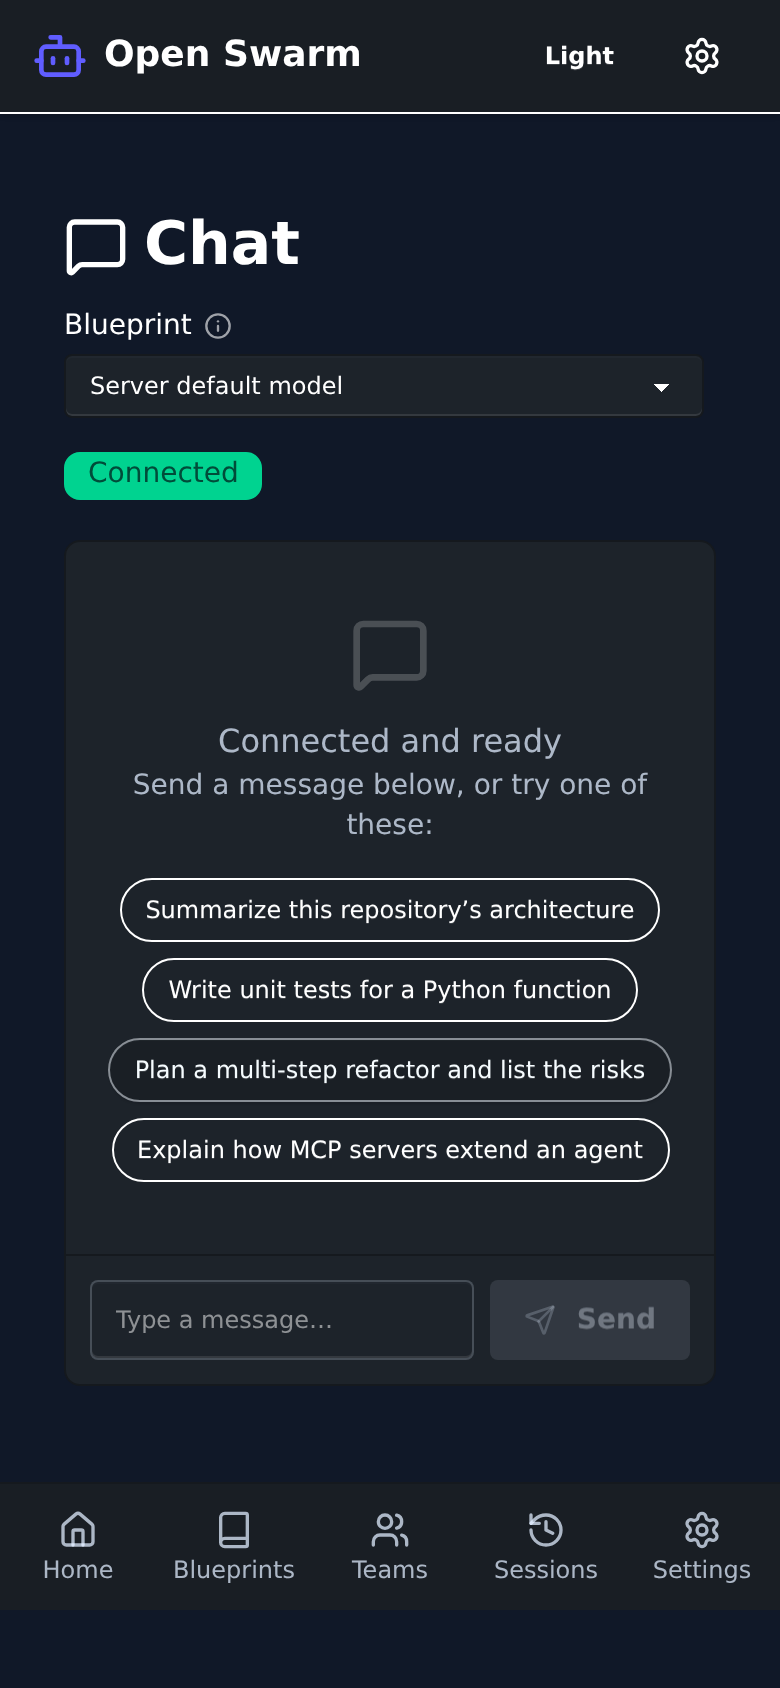
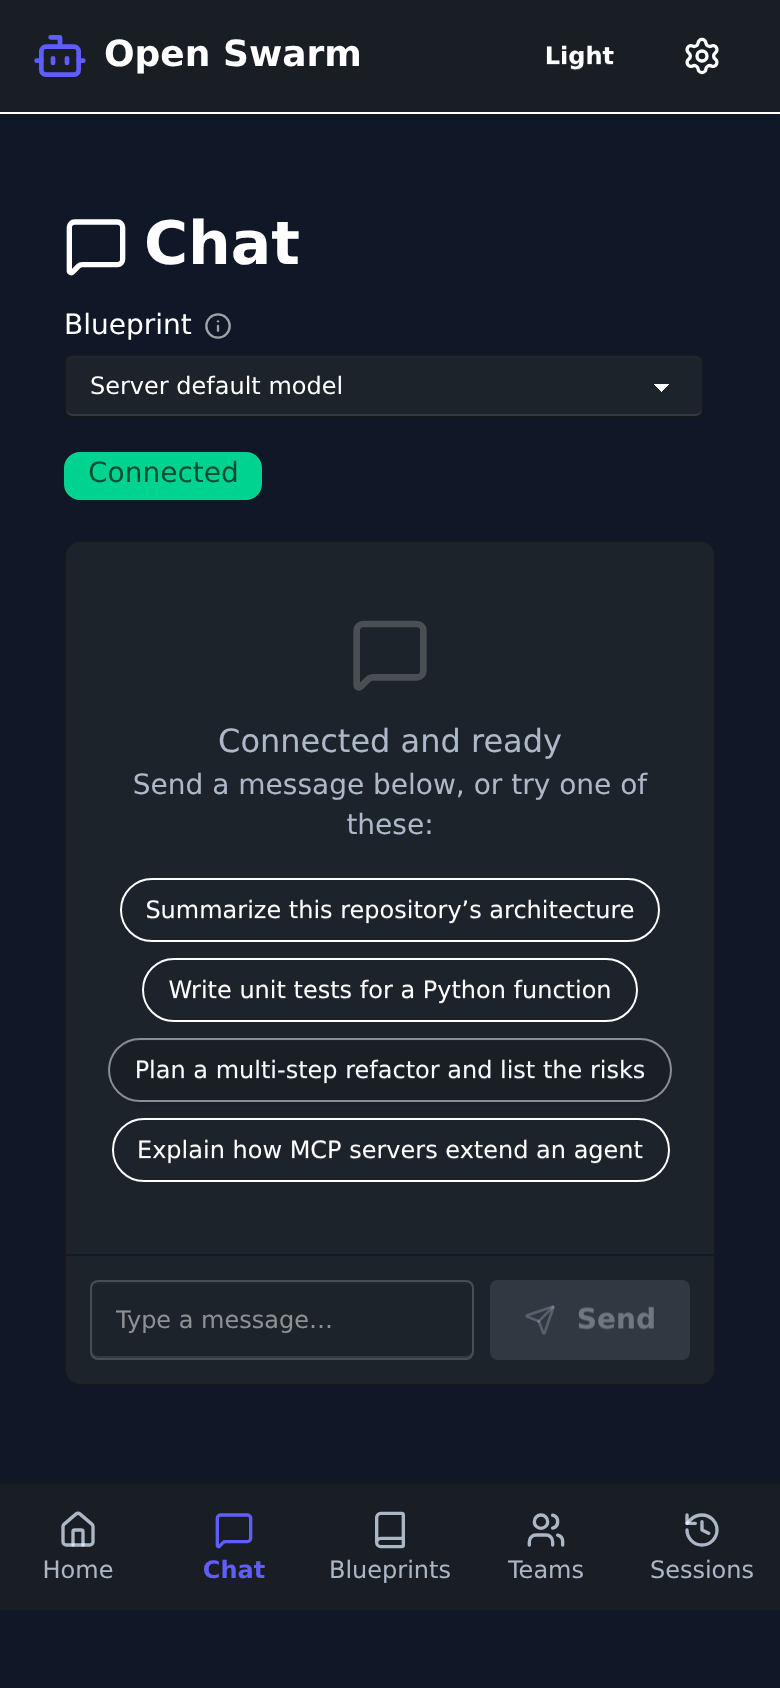
docs: SPA Chat dock vs Django Settings dock honesty
Rebuild SPA dist and recapture landing/spa-chat mobiles after App.tsx
added Chat to the mobile dock. Docs now distinguish SPA
Home·Chat·Blueprints·Teams·Sessions from Django
Home·Blueprints·Teams·Sessions·Settings; spa-chat captions match the
Connected post-login journey frames.

diff --git a/docs/SCREENSHOTS.md b/docs/SCREENSHOTS.md
@@ -16,8 +16,8 @@ full-page PNGs.
 
 | File | Page / URL | What it shows | Used in | Captured | Status |
 | --- | --- | --- | --- | --- | --- |
-| `landing.png` | `/` (React SPA dashboard) | Counts 0/53/53; Quick Actions **Launch Team / Browse Blueprints / Manage Teams / Settings**; nav Home·Blueprints·Teams·Sessions·Settings (matches App.tsx) | USER_JOURNEY.md, GUIDED_TOUR.md, README.md | 2026-08-18 | current |
-| `spa-chat.png` | `/chat` (React SPA) | **Unavailable** / websocket failed gate + Sign in CTA; blueprint selector **not** in frame — same gate as `mobile/spa-chat.png` | GUIDED_TOUR.md | 2026-08-18 | current |
+| `landing.png` | `/` (React SPA dashboard) | Counts 0/55/55; Quick Actions **Launch Team / Browse Blueprints / Manage Teams / Settings**; desktop top nav Home·Blueprints·Teams·Sessions·Settings (matches App.tsx) | USER_JOURNEY.md, GUIDED_TOUR.md, README.md | 2026-08-18 | current |
+| `spa-chat.png` | `/chat` (React SPA) | **Connected** shell after journey login; blueprint selector + empty-state prompts (matches `mobile/spa-chat.png`) | GUIDED_TOUR.md | 2026-08-18 | current |
 | `spa-teams.png` | `/teams` → **`/teams/launch/`** | Redirect capture + sticky “Redirected: …” banner over Team Launcher | GUIDED_TOUR.md | 2026-08-18 | current |
 | `spa-blueprints.png` | `/blueprints` → **`/blueprint-library/`** | Redirect capture + banner over Blueprint Library | GUIDED_TOUR.md | 2026-08-18 | current |
 | `spa-settings.png` | `/settings` → **`/settings/`** | Redirect capture + banner over Settings Dashboard | GUIDED_TOUR.md | 2026-08-18 | current |
@@ -43,21 +43,21 @@ Same stems as desktop with `--mobile` (iPhone-14-class: 390×844, dpr 2, touch).
 
 **Bottom nav honesty (as of these PNGs):**
 
-* **Django** operator pages and the **SPA** shell (`mobile/landing.png`,
-  `mobile/spa-chat.png`) use the same five-tab bar
-  **Home · Blueprints · Teams · Sessions · Settings** (matches App.tsx).
+* **SPA** shell (`mobile/landing.png`, `mobile/spa-chat.png`) dock is
+  **Home · Chat · Blueprints · Teams · Sessions** (matches App.tsx — Settings
+  is desktop top-nav / gear only, not in the SPA mobile dock).
+* **Django** operator pages keep **Home · Blueprints · Teams · Sessions ·
+  Settings** (no Chat tab; chat stays SPA-only).
 * Bare SPA paths still **redirect** to Django; `spa-*` redirect captures keep
-  the sticky “Redirected: …” banner over the Django landing (five-tab bar).
-* Desktop and mobile `spa-chat.png` both show the **Unavailable** /
-  websocket-failed gate with a Sign in link (`/accounts/login/`). A prior
-  mobile frame sometimes showed **Connected** when an older session cookie
-  survived; the current journey capture authenticates up front but the chat
-  WS still fails closed in this env, so both viewports match.
+  the sticky “Redirected: …” banner over the Django landing (Django five-tab).
+* Desktop and mobile `spa-chat.png` both show the **Connected** composer after
+  the journey script logs in as `journey-admin` (blueprint selector visible).
+  Anonymous / failed-WS frames are **not** what these PNGs show.
 
 | File | Page / URL | Mobile-specific notes | Captured | Status |
 | --- | --- | --- | --- | --- |
-| `mobile/landing.png` | `/` | Stat cards stack; Quick Actions **Launch Team / Browse Blueprints / Manage Teams / Settings**; **5-tab dock** Home · Blueprints · Teams · Sessions · Settings (Home active; matches App.tsx). Embedded in GUIDED_TOUR.md | 2026-08-18 | current |
-| `mobile/spa-chat.png` | `/chat` | **Unavailable** / websocket-failed gate + Sign in CTA (matches desktop); **5-tab dock** (Chat is SPA-only, not a dock tab) | 2026-08-18 | current |
+| `mobile/landing.png` | `/` | Stat cards stack; Quick Actions **Launch Team / Browse Blueprints / Manage Teams / Settings**; **SPA 5-tab dock** Home · Chat · Blueprints · Teams · Sessions (Home active; matches App.tsx). Embedded in GUIDED_TOUR.md | 2026-08-18 | current |
+| `mobile/spa-chat.png` | `/chat` | **Connected** composer + blueprint selector; **SPA 5-tab dock** with **Chat** active | 2026-08-18 | current |
 | `mobile/spa-teams.png` | `/teams` → **`/teams/launch/`** | Redirect banner + Team Launcher; Django **5-tab** bar (Teams active) | 2026-08-18 | current |
 | `mobile/spa-blueprints.png` | `/blueprints` → **`/blueprint-library/`** | Redirect banner + single-column cards; Django **5-tab** (Blueprints active) | 2026-08-18 | current |
 | `mobile/spa-settings.png` | `/settings` → **`/settings/`** | Redirect banner over Settings dashboard; Django **5-tab** (Settings active). Embedded in GUIDED_TOUR.md | 2026-08-18 | current |

diff --git a/docs/GUIDED_TOUR.md b/docs/GUIDED_TOUR.md
@@ -50,36 +50,33 @@ replies, team launches) need an LLM profile configured (see
 ![SPA dashboard: live team/blueprint/model counts, quick actions, API reachable](./screenshots/landing.png)
 
 *Lightweight React dashboard. This capture shows Teams **0**, Blueprints
-**53**, Models **53** (API listings — the Blueprint Library’s discoverable
+**55**, Models **55** (API listings — the Blueprint Library’s discoverable
 catalog count can differ). Desktop top nav: **Home · Blueprints · Teams ·
 Sessions · Settings**. Quick Actions: **Launch Team**, **Browse Blueprints**,
 **Manage Teams**, **Settings**. Banner text points operators at Django
 trailing-slash paths for library, sessions, creators, and settings.
 Recaptured after `npm run build` on **2026-08-18**.
 
-![SPA dashboard (mobile): same counts; five-tab dock Home active](./screenshots/mobile/landing.png)
+![SPA dashboard (mobile): same counts; SPA dock Home · Chat · Blueprints · Teams · Sessions](./screenshots/mobile/landing.png)
 
-*Mobile twin (`screenshots/mobile/landing.png`): stacked cards and the same
-**five-tab dock** (Home · Blueprints · Teams · Sessions · Settings; Home
-active) as App.tsx.*
+*Mobile twin (`screenshots/mobile/landing.png`): stacked cards and the **SPA
+five-tab dock** (**Home · Chat · Blueprints · Teams · Sessions**; Home
+active) from App.tsx. Django operator pages still use Home · Blueprints ·
+Teams · Sessions · Settings — different chrome.*
 
 **What you can do:** confirm the API is reachable, jump into the operator UI.
 
 ### Chat — `/chat` (React SPA)
 
-![SPA chat: Unavailable / websocket-failed gate; Sign in CTA (no blueprint selector in this frame)](./screenshots/spa-chat.png)
+![SPA chat: Connected websocket shell with blueprint selector](./screenshots/spa-chat.png)
 
-*SPA websocket chat (`/ws/…`). This capture is the **Unavailable** /
-“Websocket connection failed” gate — authenticated session required
-(`/accounts/login/`), plus empty-state “Sign in if needed, then
-reconnect…”. The blueprint selector and Connected badge appear only after
-the websocket opens; they are **not** in this PNG. Desktop and mobile
-`spa-chat.png` match. Mobile dock is the **five-tab** bar (Home ·
-Blueprints · Teams · Sessions · Settings — Chat is SPA-only, not a dock
-tab). Replies also need a working LLM profile.*
+*SPA websocket chat (`/ws/…`). Journey capture logs in as `journey-admin`, so
+desktop and mobile `spa-chat.png` show the **Connected** shell with blueprint
+selector and empty-state prompts (not the anonymous Unavailable gate). Mobile
+dock is **Home · Chat · Blueprints · Teams · Sessions** with **Chat** active.
+Replies also need a working LLM profile.*
 
-**What you can do:** log in and reconnect so the chat shell (including the
-blueprint selector) appears, then stream replies. Prefer Django Team
+**What you can do:** pick a blueprint and stream replies. Prefer Django Team
 Launcher for scripted multi-agent runs.
 
 ### Bare SPA entry URLs (redirect to Django)
@@ -116,13 +113,14 @@ active).*
 
 ## 3. Django operator UI (canonical)
 
-Primary chrome for **Django** (and the rebuilt SPA desktop top nav / mobile
-dock): **Home · Blueprints · Teams · Sessions · Settings**, with GitHub under
-**More** on Django desktop only. Mobile **Django** and **SPA** captures under
-`screenshots/mobile/` (including `landing.png`, `spa-chat.png`,
-`spa-settings.png`, and the operator twins below) use that same five-tab
-bottom bar (matches App.tsx). After bare-path redirects, `spa-*` captures show
-the Django shell (five-tab) plus the sticky “Redirected: …” banner.
+Primary chrome for **Django** (and the SPA **desktop** top nav): **Home ·
+Blueprints · Teams · Sessions · Settings**, with GitHub under **More** on
+Django desktop only. The SPA **mobile** dock differs — **Home · Chat ·
+Blueprints · Teams · Sessions** (Chat instead of Settings; Settings stays on
+desktop top nav / gear). Mobile **Django** captures under `screenshots/mobile/`
+(operator twins + `spa-*` redirects) keep the Django five-tab bar. After
+bare-path redirects, `spa-*` captures show the Django shell plus the sticky
+“Redirected: …” banner.
 
 ### Login — `/accounts/login/`
 

diff --git a/CHANGELOG.md b/CHANGELOG.md
@@ -15,6 +15,7 @@ All notable changes to this project will be documented in this file.
 - **MoA CLI P1 UX:** soft `--team` failure still prints payload then exits 1; `-v` scopes INFO to `swarm.core.moa` (no root `basicConfig`); seeds `notes.txt` only if missing; `--trace` creates parent dirs
 - **Docs polish:** journey screenshots regenerated (2026-08-18) + caption/registry honesty; MoA troubleshooting; FEATURE_STATUS MoA team-path row; `cli-and-api.gif` refreshed from `SWARM_TEST_MODE` captures (optional `moa --team` scene)
 - **Session detail journey capture:** mid-run seed of `resp_journey_seed` so `session-detail.png` shows Graph/timeline; embeds in USER_JOURNEY / GUIDED_TOUR / SESSION_EXPLORER with seeded-fixture honesty (synthetic JSON, not a live hybrid_team run)
+- **SPA vs Django mobile docks:** recapture after Chat dock; docs distinguish SPA **Home · Chat · Blueprints · Teams · Sessions** from Django **… · Settings**; `spa-chat.png` shows Connected post-login
 
 ### Fixed
 - **SPA honesty:** Teams/Blueprints pages no longer invent demo rows on API failure — empty + alert with Django deep-links; Launch is a real `/chat?blueprint=…` link (not a simulated timeout)
